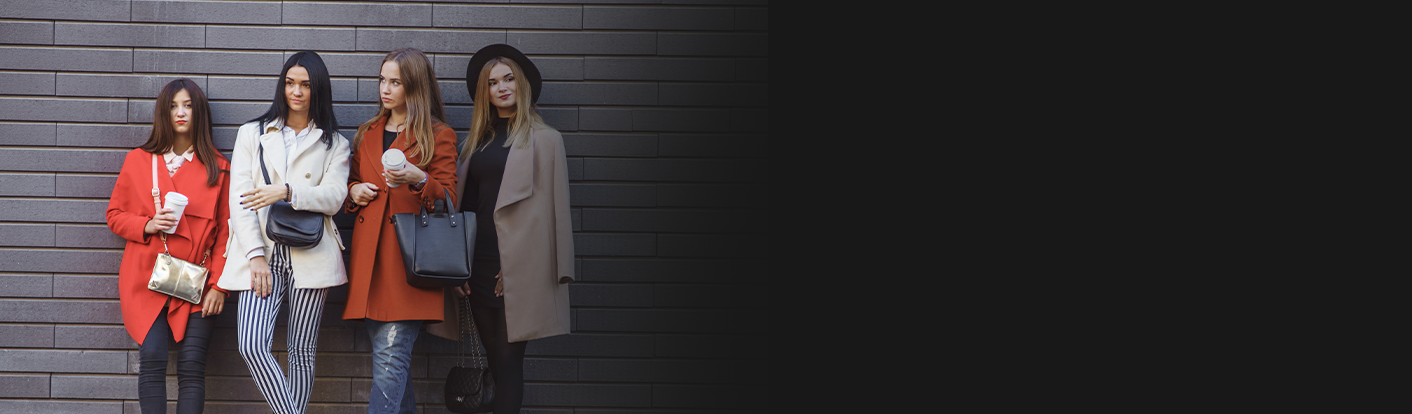
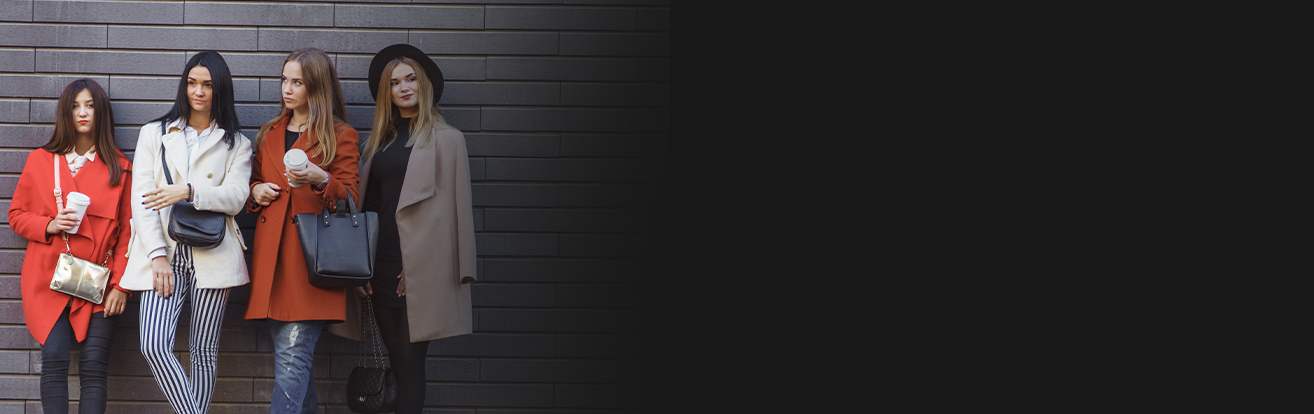
updated again

Changed region(s): [[0.0, 0.0, 0.4368, 1.0]]

diff --git a/index.html b/index.html
@@ -82,9 +82,9 @@
                 <img src="images/MG_wordmark_white.png" alt="" class="main-logo">
                 <div class="main-content">
                     <p> Former Wall Street investor
-                        and Chief Financial Officer turned speaker,
-                        coach, and author to help you <u><b>find yourself
-                            through financial freedom.</b></u>
+                        and Chief Financial Officer <br> turned speaker,
+                        coach, and author to help you <br> <i><b>find yourself
+                            through financial freedom.</b></i>
                     </p>
                 </div>
 
@@ -104,20 +104,33 @@
             <div class="carousel">
                 <div class="carousel-track">
                     <img src="logo/Forbes.png" alt="Logo 1">
-                    <img src="logo/H&R_Block_icon.png" alt="Logo 2">
+                    <img src="logo/irwin.png" alt="Logo 2">
                     <img src="logo/IR.png" alt="Logo 3">
                     <img src="logo/S&P.png" alt="Logo 4">
                     <img src="logo/Yahoo!_Finance_logo_2021.png" alt="Logo 5">
                     
                     <!-- Duplicate for seamless effect -->
                     <img src="logo/Forbes.png" alt="Logo 1">
-                    <img src="logo/H&R_Block_icon.png" alt="Logo 2">
+                    <img src="logo/irwin.png" alt="Logo 2">
+                    <img src="logo/IR.png" alt="Logo 3">
+                    <img src="logo/S&P.png" alt="Logo 4">
+                    <img src="logo/Yahoo!_Finance_logo_2021.png" alt="Logo 5">
+
+                    <img src="logo/Forbes.png" alt="Logo 1">
+                    <img src="logo/irwin.png" alt="Logo 2">
+                    <img src="logo/IR.png" alt="Logo 3">
+                    <img src="logo/S&P.png" alt="Logo 4">
+                    <img src="logo/Yahoo!_Finance_logo_2021.png" alt="Logo 5">
+
+                    <img src="logo/Forbes.png" alt="Logo 1">
+                    <img src="logo/irwin.png" alt="Logo 2">
                     <img src="logo/IR.png" alt="Logo 3">
                     <img src="logo/S&P.png" alt="Logo 4">
                     <img src="logo/Yahoo!_Finance_logo_2021.png" alt="Logo 5">
                     
                
                 </div>
+                
             </div>
 
         </section>
@@ -166,7 +179,7 @@
 
         <section class="section5">
             <div class="writeup5 animate-up">
-                <img src="images/stylish line.png" alt="highlight">
+                <!-- <img src="images/stylish line.png" alt="highlight"> -->
                 <h2>So, what is a F**k You Fund?</h2>
                 <p>Unlike F**k You money, which can take a lifetime to achieve, 
                     if ever, and is based on retiring, <br>

diff --git a/styles/styles.css b/styles/styles.css
@@ -241,7 +241,7 @@ html {
 }
 
 p, b{
-  font-size: 16pt;
+  font-size: 14pt;
   line-height: 2;
   letter-spacing: .5px;
   font-family: Mazzard H;
@@ -448,7 +448,7 @@ a{
   
 }
 .main-content{
-  width: 60%;
+  width: 90%;
 }
 .main-writeup{
   justify-content: center;
@@ -461,10 +461,9 @@ a{
   padding-left: 0;
 
 }
-.main-content p{
-  font-size: 16pt;
+.main-content p , .main-content b{
+  font-size: 14px;
   line-height: 2;
-  letter-spacing: .5px;
   text-align: center;
 }
 .hero-image-section{
@@ -537,7 +536,7 @@ a{
 }
 
 .section3{
-  height: 40vh;
+  height: 30vh;
   background-color: #e6012a;
   display: flex;
   justify-content: center;
@@ -563,7 +562,8 @@ a{
 
 .writeup4{
   height: 100%;
-  width: 65%;
+  width: 55%;
+  margin-right: 2em;
   display: flex;
   flex-direction: column;
   justify-content: center;
@@ -575,7 +575,7 @@ a{
 
 
 .writeup4 p{
-width: 1000px;
+width: 900px;
 }
 
 .section4 .writeup4 a{
@@ -918,7 +918,7 @@ color: #fff;
     @media only screen and (max-width: 1600px) {
     .writeup4{
       height: 100%;
-      width: 70%;
+      width: 65%;
     }
 
   }
@@ -985,7 +985,7 @@ color: #fff;
       padding: 25px;
       align-items: center;
       background: 
-        linear-gradient(rgba(255, 255, 255, 0.979), rgba(253, 253, 253, 0.658)), /* overlay with 50% black */
+        linear-gradient(rgba(255, 255, 255, 0.979), rgba(253, 253, 253, 0.932)), /* overlay with 50% black */
         url('/images/headshot\ 2.png') no-repeat center center;
         background-size: cover;
         background-position: top  center;
@@ -993,6 +993,7 @@ color: #fff;
         background-attachment: fixed;
     }
     .writeup4{
+      margin-right: 0em;
       width: 100%;
       padding: 5px 15px;
     }

diff --git a/styles/mystory.css b/styles/mystory.css
@@ -341,13 +341,13 @@ padding: 10% 7%;
     justify-content: center;
     /* align-items: center; */
     background-image: url(/images/3.png);
-    min-height: 150vh;
+    min-height: 100vh;
     height: auto;
     background-position: bottom center;
     background-repeat: no-repeat;
     background-size: cover;
     width: 100%;
-    padding: 7% 0;
+    padding: 3% 0;
     
 }
 
@@ -360,7 +360,7 @@ padding: 10% 7%;
     font-weight: 400;
 }
 .Lcontent3-2{
-min-height: 120vh;
+min-height: 40vh;
 height: auto;
 color: #fff;
 }
@@ -398,9 +398,9 @@ color: #fff;
 }
 
 .level3 img{
-    width: 35em;
+    width: 25em;
     position: absolute;
-    right: 25px;
+    right: -50px;
     bottom: 0;
 }
 .level4{
@@ -476,6 +476,8 @@ text-align: center;
     text-align: center;
 }
 .level6 p{
+    width: 80%;
+    font-size: 30px;
     text-align: center;
 }
 
@@ -556,7 +558,7 @@ background-size: cover;
 }
 @media only screen and (max-width: 1500px) {
 .level3 img{
-    right: -200px;
+    right: -100px;
 }
 }
 
@@ -594,7 +596,7 @@ background-size: cover;
         height: auto;
     }
     .Lcontent3-2{
-        min-height: 90vh;
+        min-height: 70vh;
         height: auto;
         color: #fff;
         }
@@ -809,7 +811,7 @@ width: 85%;
     line-height: 1.7;
   }
   .level6 p{
-    font-size: 14pt;
+    font-size: 20px;
     line-height: 1.7;
   }
 }

diff --git a/styles/build.css b/styles/build.css
@@ -13,7 +13,7 @@ li .active-now{
 }
 
 .sect-1{
-    min-height: 90vh;
+    min-height: 60vh;
     height: fit-content;
     background-color: #e6012a;
     background-image: url(/images/3-bg.png);
@@ -79,7 +79,7 @@ font-weight: bolder;
     background-color: #dfdfdf;
   }
   .sect-2{
-    min-height: 40vh;
+    min-height: 30vh;
     height: auto;
     padding: 2em;
     display: flex;
@@ -105,7 +105,7 @@ font-weight: bolder;
   }
 
   .sect-3 P{
-    width: 55%;
+    width: 50%;
     color: #fff;
   }
 

diff --git a/mystory.html b/mystory.html
@@ -186,10 +186,10 @@
 
         </section>
         <section class="level6">
-            <h2 class="animate-up">Join your new financial bestie</h2>
+           
             <p class="animate-up">Let me show you how to organize your life financially 
                 so you can truly live the life you’ve always dreamed of.</p>
-                <a href="work.html">Join Now</a>
+                <a href="work.html">Let's go</a>
         </section>
 
 

diff --git a/work.html b/work.html
@@ -74,7 +74,7 @@
             </div>
         </div>
         <section class="chat-sect">
-            <h2>Let's Chat</h2>
+            <h2>Let's Talk</h2>
         </section>
         <section class="form">
             <div class="form-container">

diff --git a/styles/work.css b/styles/work.css
@@ -13,7 +13,7 @@ li .active-now{
 }
 
 .chat-sect{
-    height: 40vh;
+    height: 20vh;
     background-color: #e6012a;
     background-image: url(/images/3-bg.png);
     background-size: cover;

diff --git a/styles/carousel.css b/styles/carousel.css
@@ -17,7 +17,7 @@
   animation-play-state: paused;
 }
 .carousel img {
-  max-width: 150px;
+  max-width: 250px;
   height: auto;
   margin: 0 2vw;
   object-fit: contain;
